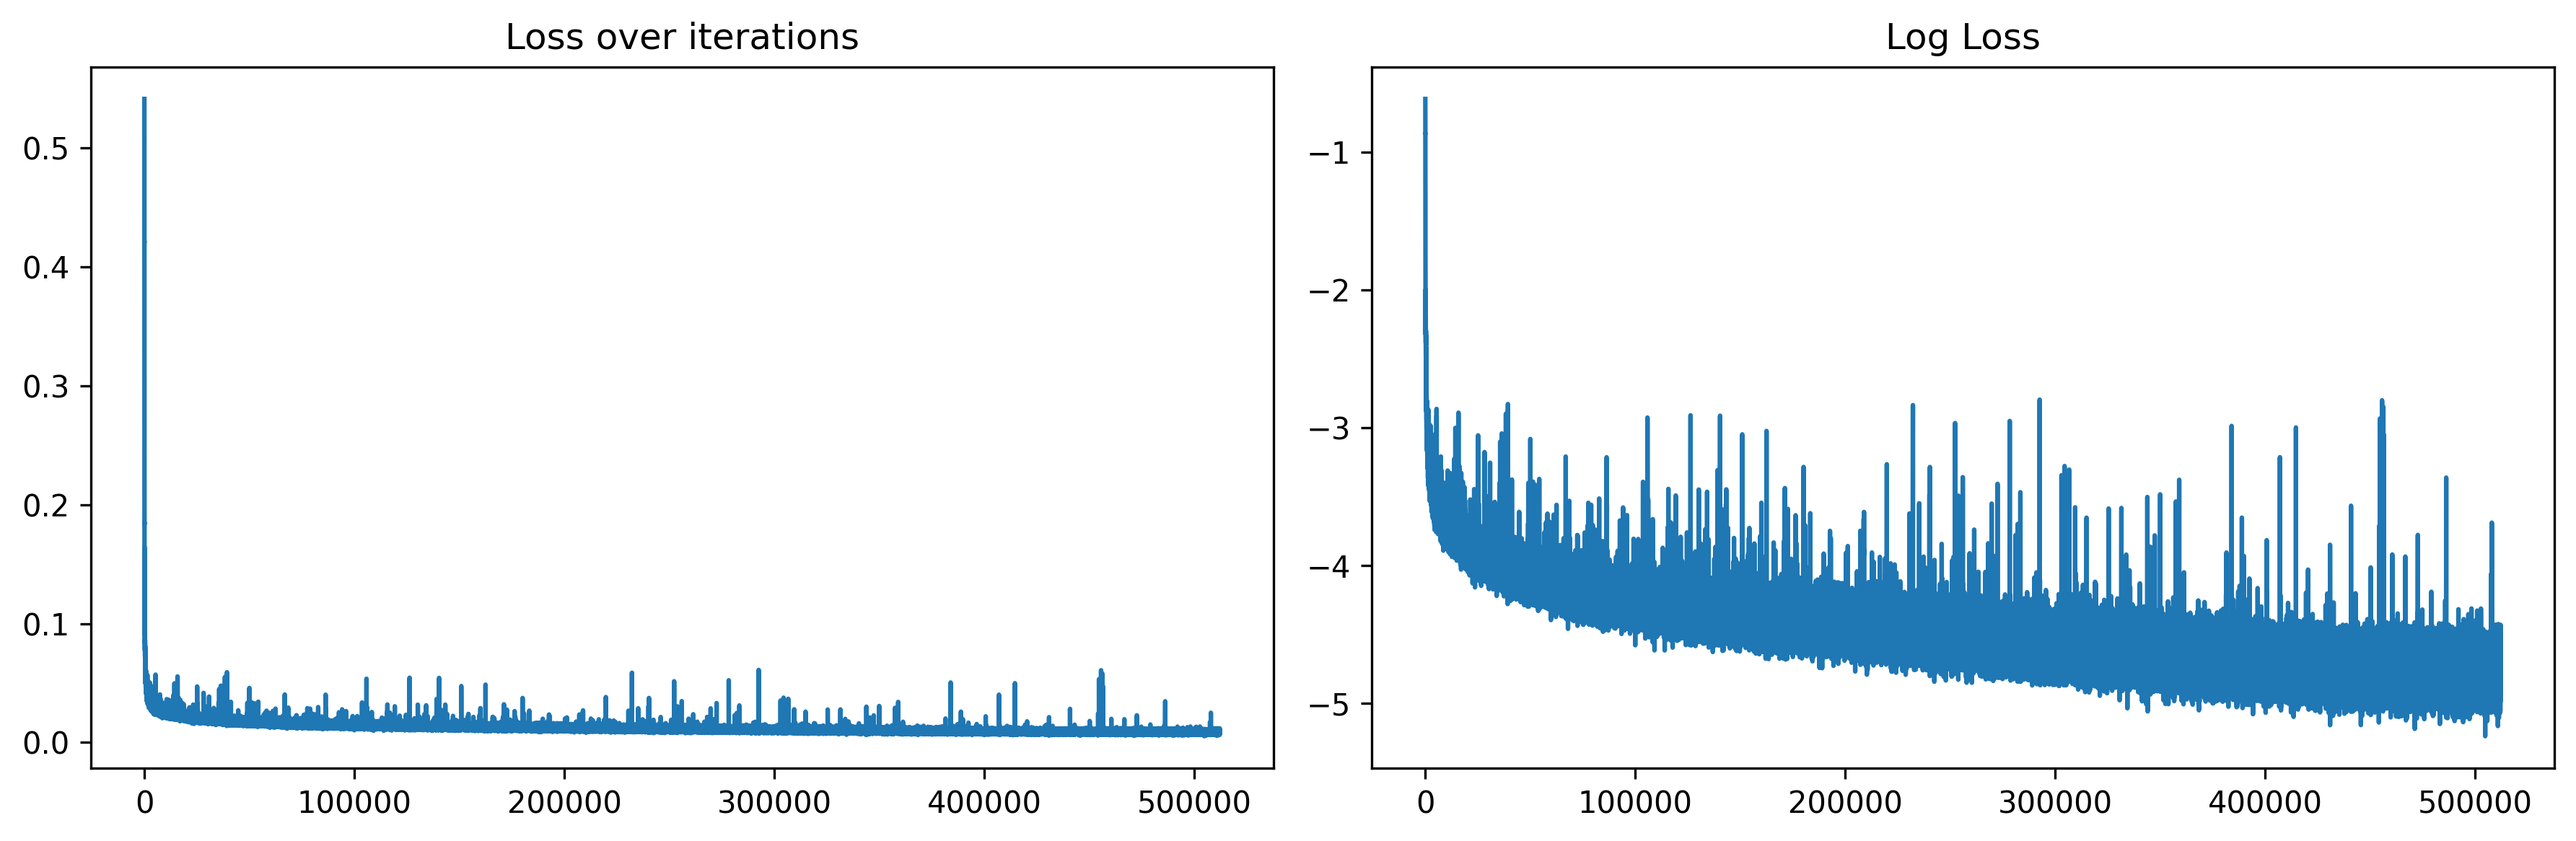
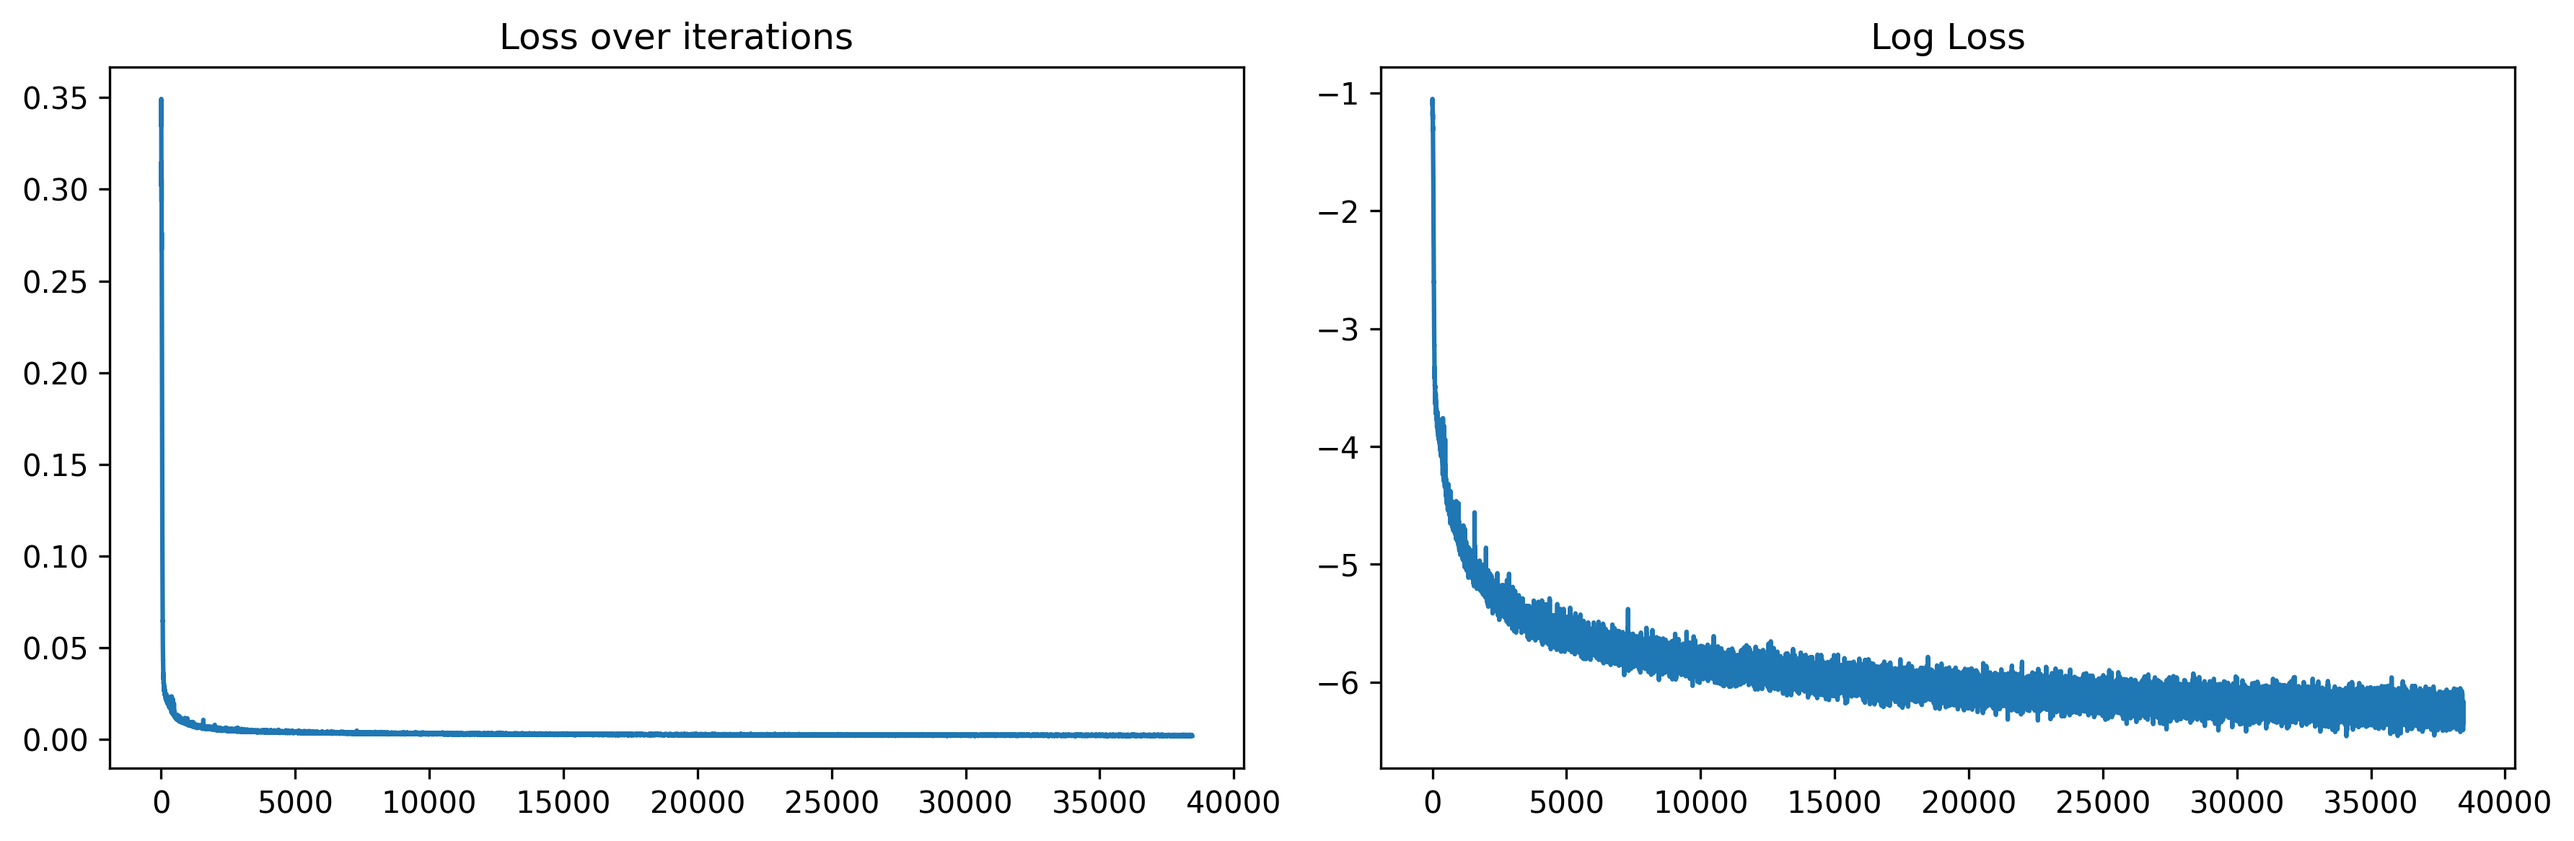
Refactor task parameter computation in FlexibleWindowDataset and update sbto_utils for quaternion handling

diff --git a/datasets/flexible_dataset.py b/datasets/flexible_dataset.py
@@ -7,7 +7,7 @@ import yaml
 from torch.utils.data import Dataset
 from tqdm import tqdm
 
-from utils.math.sbto_utils import compute_sbto_components, yaw_to_rot_matrix, yaw_from_quat, rot6d_to_rot, quat_to_rot, batch_rotation, rot_to_6d
+from utils.math.sbto_utils import compute_sbto_components, yaw_to_rot_matrix, yaw_from_quat, rot6d_to_rot, quat_to_rot, compute_task_params, rot_to_6d
 from utils.math.rotation_conversions import ( 
     axis_angle_to_quaternion, 
 )
@@ -370,20 +370,13 @@ class FlexibleWindowDataset(Dataset):
 
     def _compute_task_params(self, base_traj, obj_traj, start_idx=0):
         # Default: Object X, Y displacement from start to end of trajectory
-        if obj_traj.shape[0] > 0:
-            disp_vector_global = (obj_traj[-1, :3] - obj_traj[start_idx, :3])
-            R_ref_inv = yaw_to_rot_matrix(-yaw_from_quat(base_traj[start_idx, 3:]))
-            disp_vector = (R_ref_inv @ disp_vector_global)[..., :self.num_task_params] # (2,)
-            if self.normalize_goal_vec:
-                disp_vector = disp_vector[..., :self.num_task_params-1]
-                disp_vector_norm = np.linalg.norm(disp_vector)
-                if disp_vector_norm > 1e-3:
-                    disp_vector = disp_vector / disp_vector_norm
-                else:
-                    disp_vector = np.zeros_like(disp_vector)
-                disp_vector = np.concatenate([disp_vector, np.array([disp_vector_norm])], axis=-1)
-            return disp_vector
-        return np.zeros(self.num_task_params)
+        return compute_task_params(
+            current_robot_state=base_traj[start_idx, 3:],
+            current_obj_state=obj_traj[start_idx, :3],
+            desired_obj_pos=obj_traj[-1, :3],
+            normalize_goal_vec=self.normalize_goal_vec,
+            num_task_params=self.num_task_params,
+        )
 
     def _normalize(self, key, val):
         if self.normalization_type == "min_max":

diff --git a/utils/math/sbto_utils.py b/utils/math/sbto_utils.py
@@ -798,8 +798,8 @@ def compute_task_params(current_robot_state, current_obj_state, desired_obj_pos,
     Computes the task parameters (local object displacement) for the diffusion model.
 
     Args:
-        current_robot_state (np.ndarray): Shape (7,) or (3,) [x, y, z, qx, qy, qz, qw]
-                                          representing the robot base pose.
+        current_robot_state (np.ndarray): Shape (7,) or (4,) [x, y, z, qx, qy, qz, qw]
+                                          representing the robot base pose (or quat).
         current_obj_state (np.ndarray): Shape (3,) or (7,) [x, y, z, ...]
                                         representing the current object position.
         desired_obj_pos (np.ndarray): Shape (3,) [x, y, z] 
@@ -830,7 +830,10 @@ def compute_task_params(current_robot_state, current_obj_state, desired_obj_pos,
         local_delta_norm = np.linalg.norm(local_delta, keepdims=True)
         if local_delta_norm > 1e-3:
             local_delta = local_delta / local_delta_norm
-        local_delta = np.concatenate([local_delta, local_delta_norm], axis=-1)
+        else:
+            local_delta = np.zeros_like(local_delta)
+            local_delta_norm = 0.0
+        local_delta = np.concatenate([local_delta, np.atleast_1d(np.clip(local_delta_norm, a_min=None, a_max=3.0))], axis=-1)
         
     return local_delta
 
